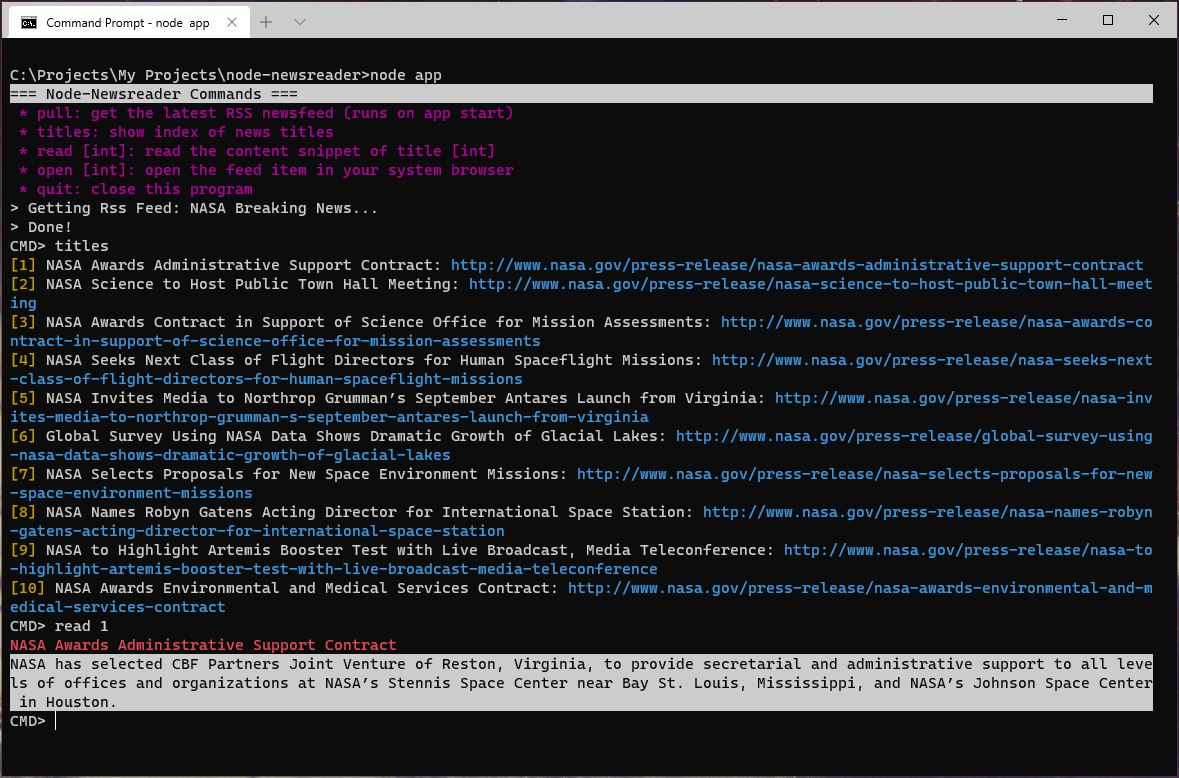
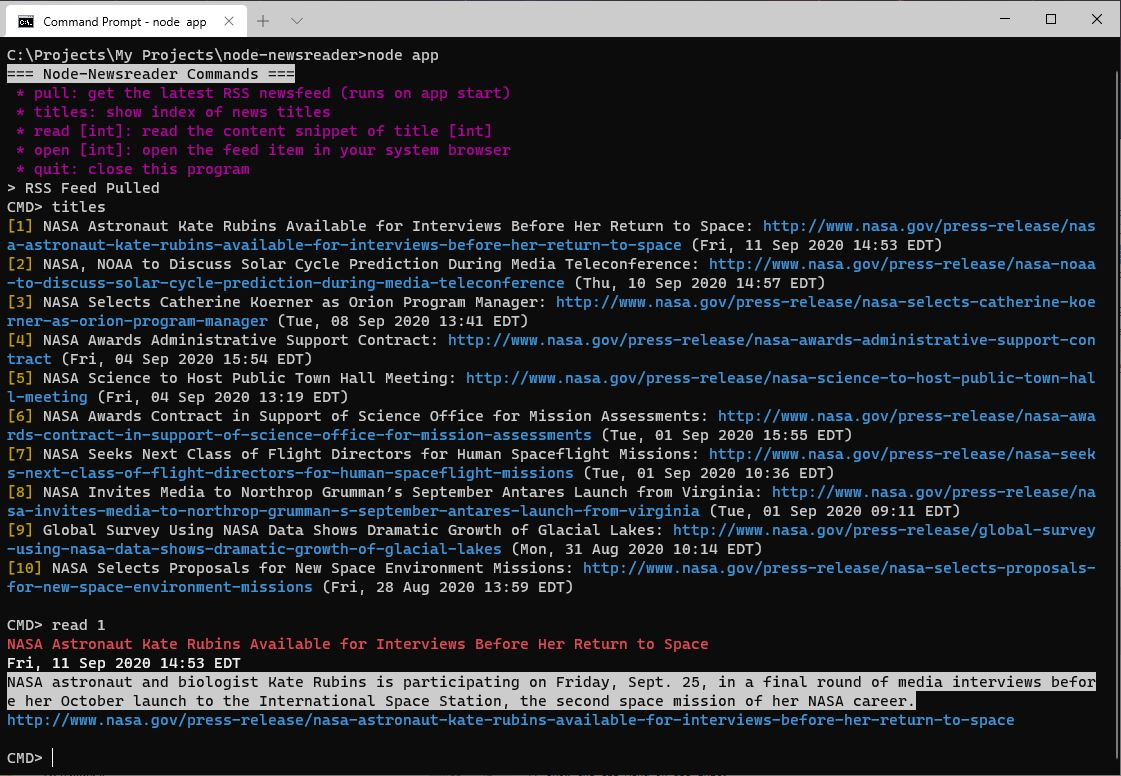
code cleanup, more readme info and better app screenshot

diff --git a/src/reader.js b/src/reader.js
@@ -18,35 +18,34 @@ let parser = new Parser({
 
 // create reader class
 function reader(url) {
-    
+
     this.url = url;
     this.feed = {};
 
 };
 
+// pull command can be run from the CLI and also runs on app start
 reader.prototype.pull = function(callback) {
 
     var self = this;
     
+    // method to fetch and parse the RSS feed
     parser.parseURL(this.url, function(err, feed) {
-        
         if (err) throw err;
-        
+
         // going to add the current timestap to the feed object fnar
         let d = new Date();
         let diso = d.toISOString();
-        feed.date = diso;
-        
+        feed.date = diso;  
         self.feed = feed;
-        
         let res = "> RSS Feed Pulled";
-    
+
         callback(res);
-        
     });
     
 };
 
+// menu command to list each rss article pulled with an index for retrieval with the read/open commands
 reader.prototype.titles = function(callback) {
 
     let res = "";
@@ -59,13 +58,10 @@ reader.prototype.titles = function(callback) {
     }
     else {
         let i = 0;
-        // should just return the feed items 
-        
-        
-        // cycle through the feed object and print out the titles
+        // cycle through the feed object and print out the titles, with link and published date
         this.feed.items.forEach(item => {
             i++;
-            res += chalk.yellow("[" + i + "] ") + item.title + ": " + chalk.cyan(item.link) + "\n";
+            res += chalk.yellow("[" + i + "] ") + item.title + ": " + chalk.cyan(item.link) + " (" + item.pubDate + ")\n";
             
         });
     }
@@ -73,6 +69,7 @@ reader.prototype.titles = function(callback) {
     callback(res);
 };
 
+// read an article's details: Title, pubdate, and summary
 reader.prototype.read = function(args, callback) {
 
     let res = "";
@@ -98,10 +95,14 @@ reader.prototype.read = function(args, callback) {
                 argcheck = false;
             }
         }
-
+        
+        // get the current item selected from the feed object
+        let curItem = this.feed.items[index - 1];
         if (argcheck) {
-            res += chalk.red.bold(this.feed.items[index - 1].title) + "\n";
-            res += chalk.white.inverse(this.feed.items[index - 1].contentSnippet);
+            res += chalk.red.bold(curItem.title) + "\n";
+            res += chalk.white.bold(curItem.pubDate) + "\n";
+            res += chalk.white.inverse(curItem.contentSnippet) + "\n";
+            res += chalk.cyan(curItem.link) + "\n";
         }
         else {
             res = "> Unknown news index, try read [int].  Check 'titles' for available indices.";
@@ -113,6 +114,7 @@ reader.prototype.read = function(args, callback) {
     
 };
 
+// open an article in the browser
 reader.prototype.open = function(args, callback) {
 
     let res = "";
@@ -158,4 +160,5 @@ reader.prototype.open = function(args, callback) {
     callback(res);
     
 };
+
 module.exports = reader;

diff --git a/README.md b/README.md
@@ -9,7 +9,7 @@ Installation requires Node.js to be installed as a pre-requisite. Visit https://
 3. NPM the Node Package Manager will setup node-newsreader and any depenendcies
 4. Run command > node app
 
-Running the app will present a CLI that prompts for user input. The following commands are available:
+On launch the app will pull the feed configued in config.js and will present a CLI and menu for user input. The following commands are available:
 
 * pull: get the latest RSS newsfeed (runs on app start)
 * titles: show index of news titles
@@ -21,7 +21,7 @@ Running the app will present a CLI that prompts for user input. The following co
 
 ## Configuration
 
-Edit the config/config.js and replace set config.url to the RSS feed of your choosing.
+Edit the config/config.js and set config.url to the RSS feed of your choosing.
 
 ## Libraries
 node-newsreader makes use of a library to parse RSS feeds from XML to JSON and several other libraries to enhance the UI.
@@ -43,3 +43,9 @@ Node.js 'readline' alternative with support for coloured syntax highlighting and
 https://www.npmjs.com/package/chalk
 
 Terminal string styling done right
+
+### open
+
+https://www.npmjs.com/package/open
+
+Open stuff like URLs, files, executables. For URLs in this case, open attempts to fetch the system brower (cross-platform).
